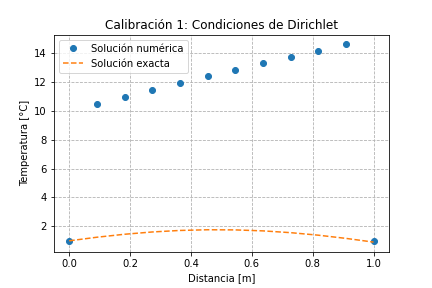
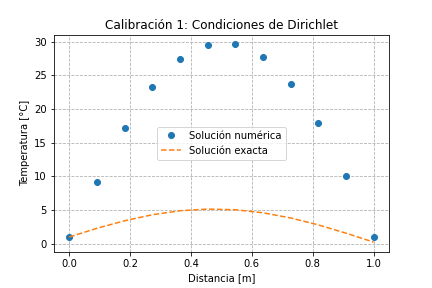
17:05

diff --git a/Programa_prin_D.py b/Programa_prin_D.py
@@ -17,7 +17,7 @@ K = float(input("Ingresa la conductividad térmica del material   k="))
 N = int(input("Ingresa el número de nodos que desea            N="))
 Ta = float(input("Ingrese la temperaruta al inicio.               Ta="))
 Tb = float(input("Ingrese la temperaruta al final.                Tb="))
-s = float(input("Ingrese la fuente o sumidero.                   s="))
+s = float(input("Ingrese la fuente o sumidero.                s="))
 
 # Calculo de constantes necesarias
 h = (b-a)/(N+1)
@@ -25,31 +25,30 @@ r = K/(h**2)
 x = np.linspace(a,b,N+2)
 largo = b-a
 #g=len(x)
-#print("Tamaño",g)
+#print("Tamaño x",x)
 # Impresion de las constantes 
-
 print("\n-------------------------------------------------")
 print("El ancho de la malla es: ",h)
 print("La constante r es:       ",r)
 print("El largo de la barra es: ",largo)
 print("---------------------------------------------------\n")
 
-# --------------------- Primeros cálculos ----------------------
 # Llamado a funcion para crear arreglos
-q = np.ones(N) * s 
+q = np.ones(N) * s
 b = fun.Vector_aux(N,Ta,Tb,-1*q)
 
 #Llamando a la función creación de matriz
-A = fun.creacion_matriz(N)
+A = fun.creacion_matriz_diagonal(N,-2)
 
 # Llamar a la función solución del sistema
 u = fun.sol_sistema(A, b, N)
+
+# Ingresando las condiciones de frontera
 
 # ---- Programa 1 -------
 # Condiciones de Dirichlet  con Ta y Tb en las fronteras
 # u[0]=Ta
 # u[n]=Tb
-# Condiciones de frontera
 u[0] = Ta
 u[-1] = Tb
 
@@ -57,40 +56,48 @@ u[-1] = Tb
 a1 = fun.sol_analitica(Ta,Tb,x,N,largo)
 
 
-# ----------------------- Calibración 1 -----------------------
+# ---- Calibración ----- 
 
 
 # ---- Calibración 1 ----
 # Condiciones de Dirichlet
 # Segunda derivada de u(x) = -f^2 u(x) con x [0,1]
-A0 = fun.creacion_matriz_diagonal(N,-2) #Sistema matricial para ec. de Poisson 1D
-#f0 = np.zeros(N)   
-f0 = -x[1:N+1]**2       # Lado derecho (columana de 1 y 0)
-#f = h*h*np.exp(x[1:N+1])
-#f0 = fun.Vector_aux(N,Ta,Tb,-1*q)
-f0[-1] += 1
-f0[0] -= 1
-u0 = fun.sol_sistema(A,f0,N)
+f0=[]
+for i in range(N):
+    
+    f0.append((-1*2))
+    #f0.append(-1*(x[i])**2)
+    #f0.append(-1*2**2)
+    i=i+1
+        #f0=(-1)*x[1:N+1]**2
+#f0=(-1)*x[1:N+1]**2  
+f0[0] += 1
+f0[-1] -= h*1
 
+A0 = fun.creacion_matriz_diagonal(N,-2) #Sistema matricial para ec. de Poisson 1D
+
+#f0 = ((1/r)*np.ones(N))**1
+
+#print("f0:",f0)
+u0 =fun.sol_sistema(A0,f0,N)
 u0[0] = 1
 u0[-1] = 1
-#u_0= []
-#u_0= -(f0**2) *(u0[1:N+1])
+#f_0=-1*(4.5*np.pi)**2
 
-densidad= 2
+
 b1 = 1
-a0 =fun.sol_analitica_cali1(x,N,densidad,b1)
+a0 =fun.sol_analitica_cali1(x,N,b1,h)
 
 #print('solución analítica u0',u0)
 
 
-# ---------------------- Calibración 2 ----------------------
+# --- Calibración 2 -----
 # Condiciones de Neuman
 # du/dn = 0
 # u(1) = 3
 A1 = fun.creacion_matriz_diagonal(N,-2) #Siatema matricial para ec. de Poisson 1D
 f = np.zeros(N)   
-f = (1/r)*np.exp(x[1:N+1])         # Lado derecho (columana de 1 y 0)
+f = h*h*np.exp(x[1:N+1])         # Lado derecho (columana de 1 y 0)
 
 f[0] += h*0    # Neumman
 f[N-1] -= 3
@@ -104,13 +111,17 @@ u1[-1] = 3
 # Solución análitica
 a2=fun.sol_analitica_cali2(x,N)
 
-#----------------------------------------------------------
 # Error entre la solución numerica y la exacta
 Error1 = np.sqrt(h) * np.linalg.norm(fun.sol_analitica_cali2(x,N) - u1)
 print(" Error calibración 2 = %12.10g " % Error1)
-# ---------------------------------------------------------
-Error = np.sqrt(h) * np.linalg.norm(a1 - u)
-print(" Error = %12.10g " % Error)
+
+# ---- Calibración 3
+
+A2 = fun.creacion_matriz(N,0,x)
+
+print("A2",A2)
+
+
 
 
 # Impresion de los vectores y matrices
@@ -122,10 +133,20 @@ for i in range(len(u)):
     print(u[i])
 
 
+
+#Calcula el error con respecto a la solucion analitica
+    
+Error = np.sqrt(h) * np.linalg.norm(a1 - u)
+print(" Error = %12.10g " % Error)
+
 # Llamada de la función para Gráficar
 grafica = fun.grafica_solucion(x, u,a1,"Solución de la Ecuación de Calor","Solución numérica", "Solución exacta","Solucion.png" )
 grafica0 = fun.grafica_solucion(x,u0,a0,"Calibración 1: Condiciones de Dirichlet","Solución numérica", "Solución exacta","Solucion_cali1.png" )
 grafica1 = fun.grafica_solucion(x,u1,a2,"Calibración 2: Condiciones de Neumman","Solución numérica", "Solución exacta","Solucion_cali2.png" )
-
 # Llamado a la funcion de escritura
+#Problema 1
 archivo = fun.escritura(largo,Ta,Tb,N)
+#Calibración 1
+
+#Calibración 2
+

diff --git a/Funciones_D.py b/Funciones_D.py
@@ -29,26 +29,7 @@ def Vector_aux(N,Ta,Tb,q):
 
 # -------------------------------------------------
 #Solución exacta de problema
-    """
-    Esta función genera un vector que contiene la solución analítica 
-    
-    Parameters
-    ----------
-    Ta: Real (float)
-        Temperatura al inicio
-    Tb: Real (float)
-        Temperatura al final 
-    x: 
-        
-    N: 
-    
-    largo: 
-        
-    Returns
-    -------
-    a1: 
-        
-    """
+
 def sol_analitica(Ta,Tb,x,N,largo):  
     a1=[]
     for i in range(N+2):
@@ -58,20 +39,17 @@ def sol_analitica(Ta,Tb,x,N,largo):
 
 # -------------------------------------------------
 #Solución exacta de problema
-    """
-    Esta función genera un vector que contiene la solución exacta a la
-    ecuación de calor para condiciones de tipo Dirichlet.
-    """
-def sol_analitica_cali1(x,N,f,b):  
-    
+
+def sol_analitica_cali1(x,N,b,h):  
+    for i in range(N+2):
+        #f=h*(x[i]*np.pi)**2
         
+        f=2.9
+        i=i+1
     return ((1-np.cos(f)/np.sin(f))*np.sin(f*x))+b*(np.cos(f*x))
 # ---------------------------------------------------
 #Solución exacta de problema
-    """
-    Esta función genera un vector que contiene la solución exacta a la
-    ecuación de calor para condiciones de tipo Neumman.
-    """
+
 def sol_analitica_cali2(x,N):         
     return np.exp(x) - x - (np.exp(1)) + 4.
 # -------------------------------------------------
@@ -106,10 +84,40 @@ def creacion_matriz_diagonal(N,diagonal):
     return A
 # -------------------------------------------------
 
+def creacion_matriz_diagonal1(N,diagonal,f0):
+    """
+    Esta funcion crea una matriz cuadrada de tamaño N y
+    cambia los valores de la diagonal, ayudando así a la
+    resolución de la ecuación de Poison 1D por condiciones 
+    de Dirichelet (Calibración 1)
+    
+    Parameters
+    ----------
+    N : Entero (int)
+        Número de nodos.
 
+    Returns
+    -------
+    A : Real(float)
+        Matriz(N,N).
+
+    """
+    A = np.zeros((N, N))
+   
+    A[0,0] = diagonal-f0[0]; A[0,1] = 1
+    for i in range(1,N-1):
+        A[i,i] = diagonal-f0[i]
+        A[i,i+1] = 1
+        A[i,i-1] = 1
+    A[N-1,N-2] = 1; A[N-1,N-1] = diagonal-f0[N-1]
+    return A
+
+
+
+# -------------------------------------------------
 
 # Llenado de la matriz 
-def creacion_matriz(N):
+def creacion_matriz(N,diagonal,x):
     """
     Esta funcion crea una matriz cuadrada de tamaño N y
     cambia los valores de la diagonal    
@@ -123,14 +131,23 @@ def creacion_matriz(N):
     A : Real(float)
         Matriz(N,N).
     """
+    k1=[]
+    k2=[]
+    for i in range(N):
+        k1.append( np.abs(np.sin(4.*np.pi*((x[i+1]+x[i])/2)))) #derecha
+        k2.append( np.abs(np.sin(4.*np.pi*((x[i-1]+x[i])/2)))) #izquierda
+    print("k1 ",k1)
+    print()
+    print("k2",k2, end='\n')
     A = np.zeros((N, N))
-    diagonal=-2
-    A[0,0] = diagonal; A[0,1] = 1
+    
+    A[0,0] = diagonal ; A[0,1] = k1[0]
     for i in range(1,N-1):
         A[i,i] = diagonal
-        A[i,i+1] = 1
-        A[i,i-1] = 1
-    A[N-1,N-2] = 1; A[N-1,N-1] = diagonal
+        A[i,i+1] = k1[i]
+        A[i,i-1] = k2[i]
+        A[N-1,N-2] = k2[i]
+   #A[N,N] = k1[0]
     return A
 # -------------------------------------------------
 # -------------------------------------------------
@@ -207,15 +224,28 @@ def grafica_solucion(x,u,a1,Gtitle,Ntitle,Etitle,filename):
     plt.savefig(filename)
     plt.show()
     return()
+# ---------------------------------------------------
+# Función de lectura
+#def lectura()
+#datos=[]
 
+#with open("ModeloConRuido.dat") as mcr:
+ #   for linea in mcr:
+  #      datos.append(linea.split())
+
+#n=np.shape(datos)
+#datosf=np.zeros((n[0]-2,n[1]),dtype=np.float32)
+
+#for i in range(n[0]-2):
+ #   for j in range(n[1]):
+  #      datosf[i,j]=float(datos[i+1][j])
+
+#for i in range(n[0]-2):
+ #   datosf[i,3]=(float(datos[i][3])+float(datos[i+1][3])+float(datos[i+2][3]))/3.
 
 
 # ---------------------------------------------------
 # Funcion de escritura de los datos
-    """
-    Esta función genera un archivo .txt que contiene la información 
-    generada por el código.
-    """
 def escritura(largo,Ta,Tb,N):
     f = open("Archivo.txt", "w", encoding="utf8")
     f.write("--------------------------------------")
